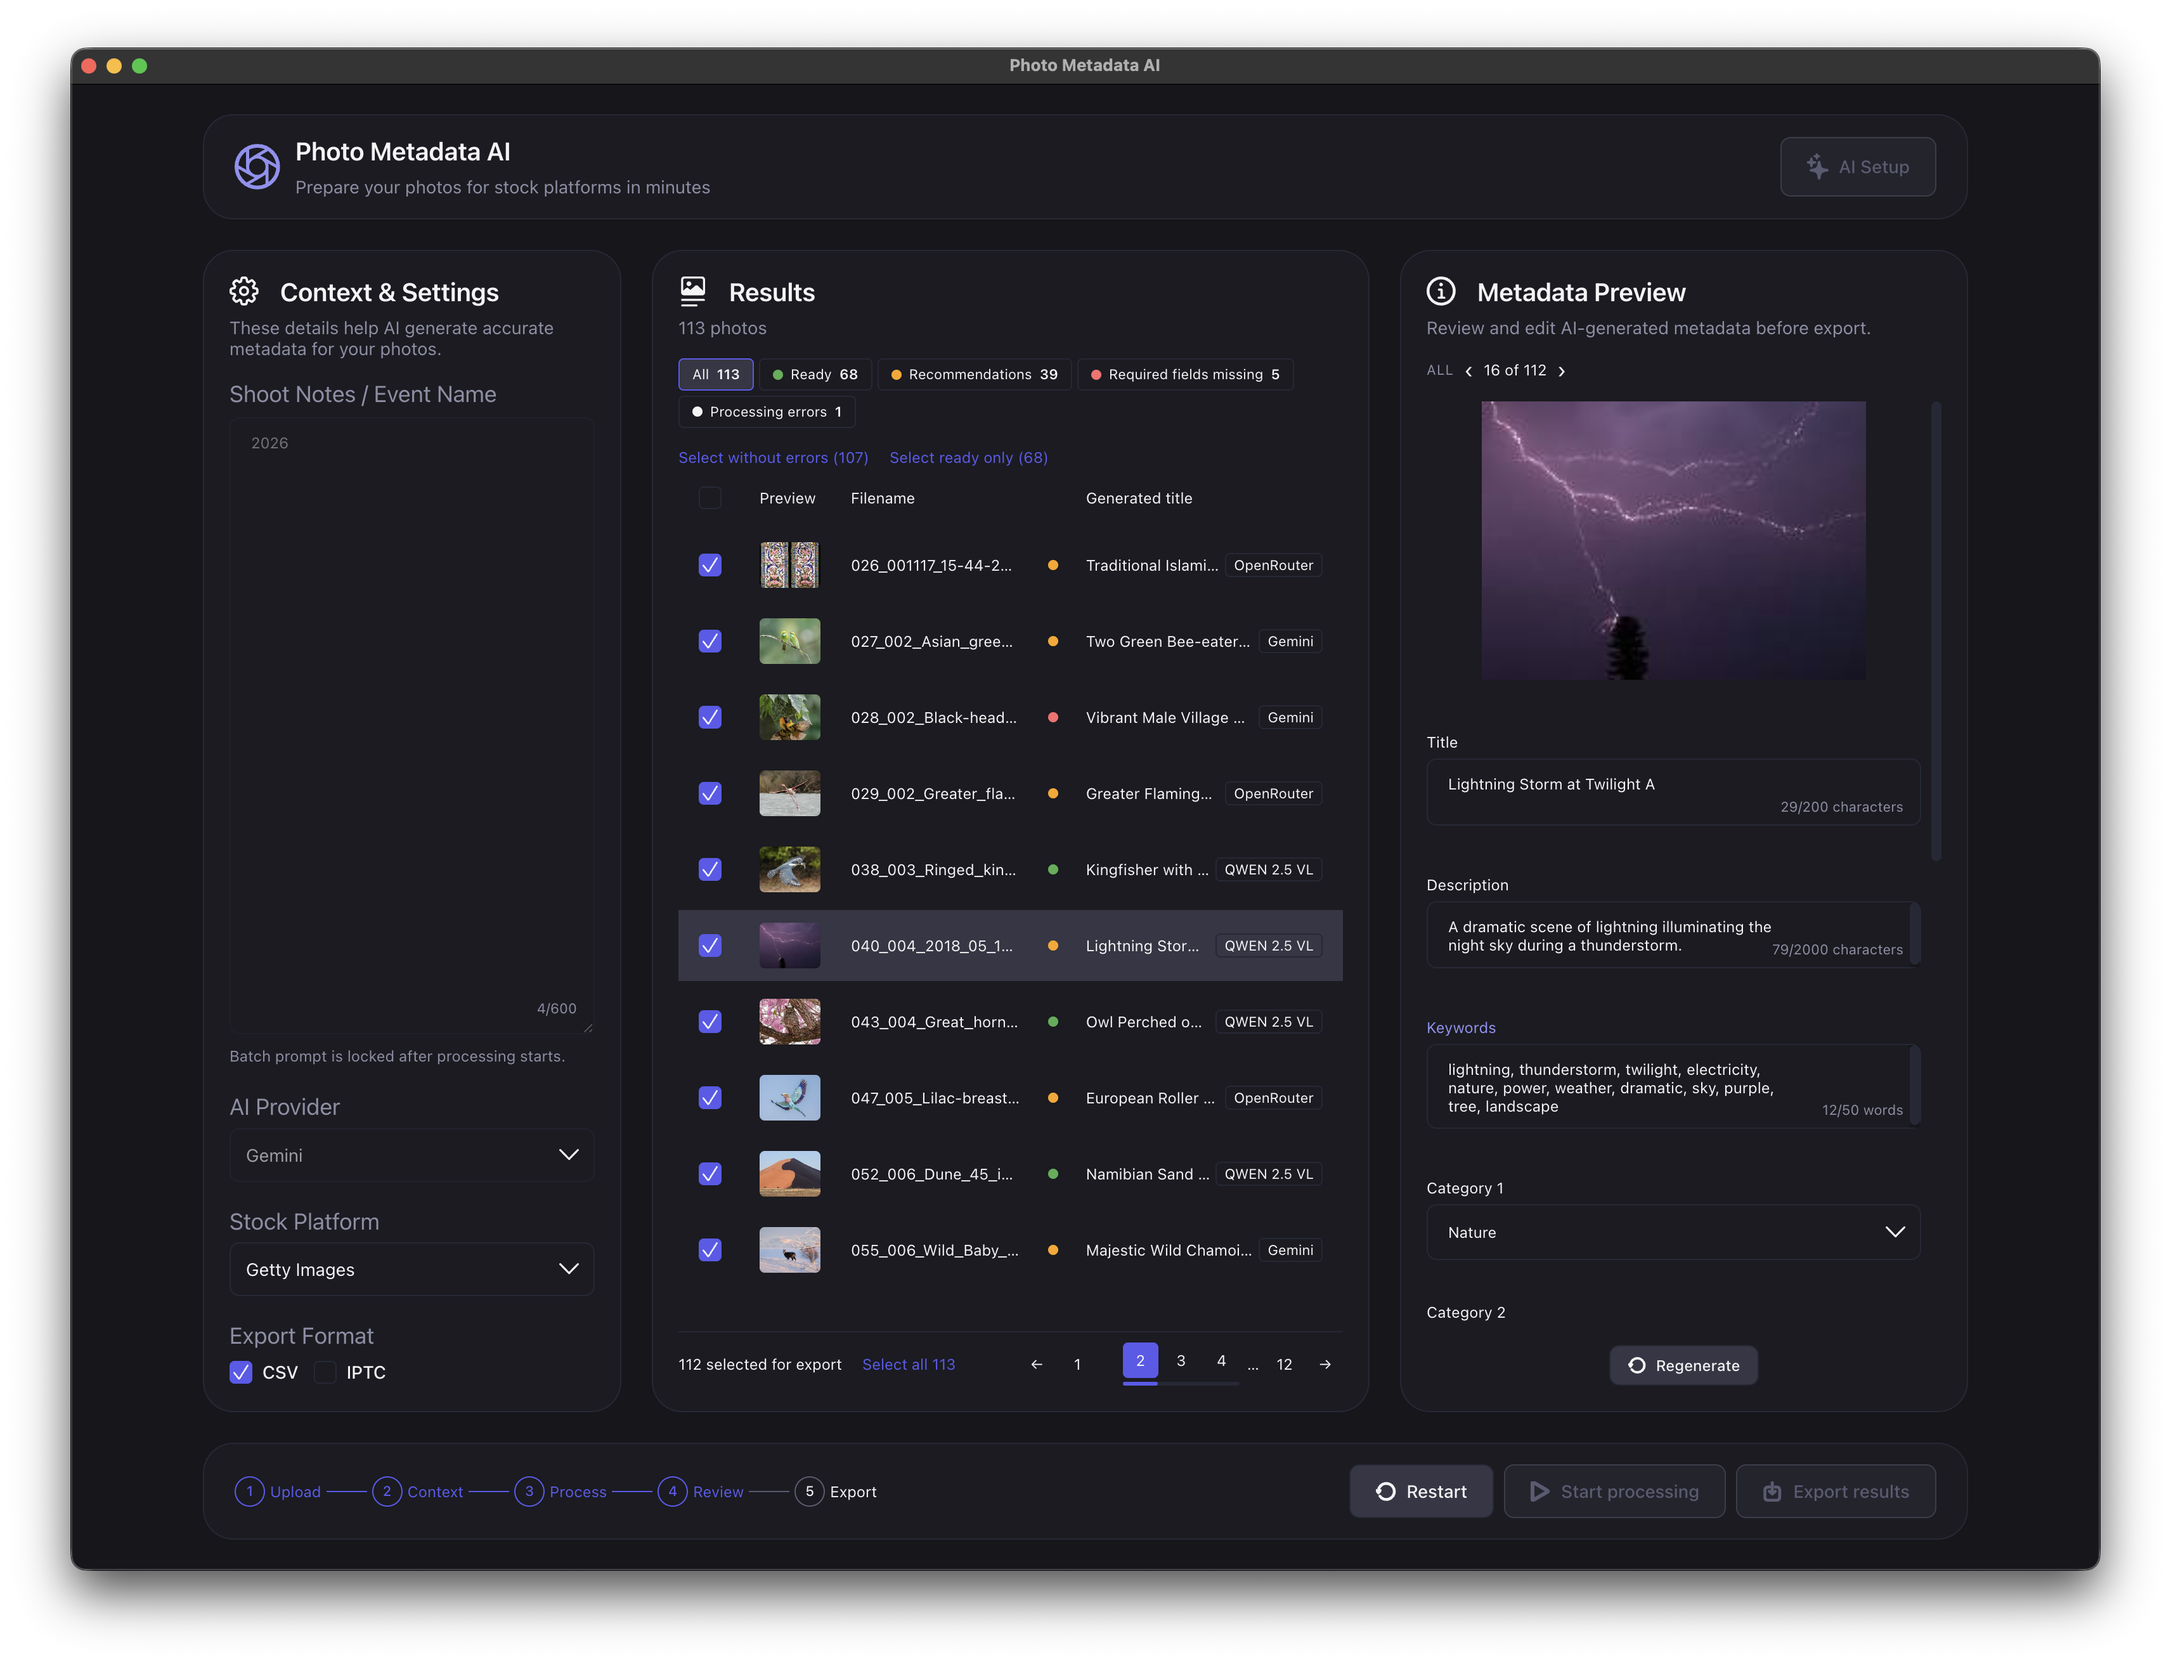
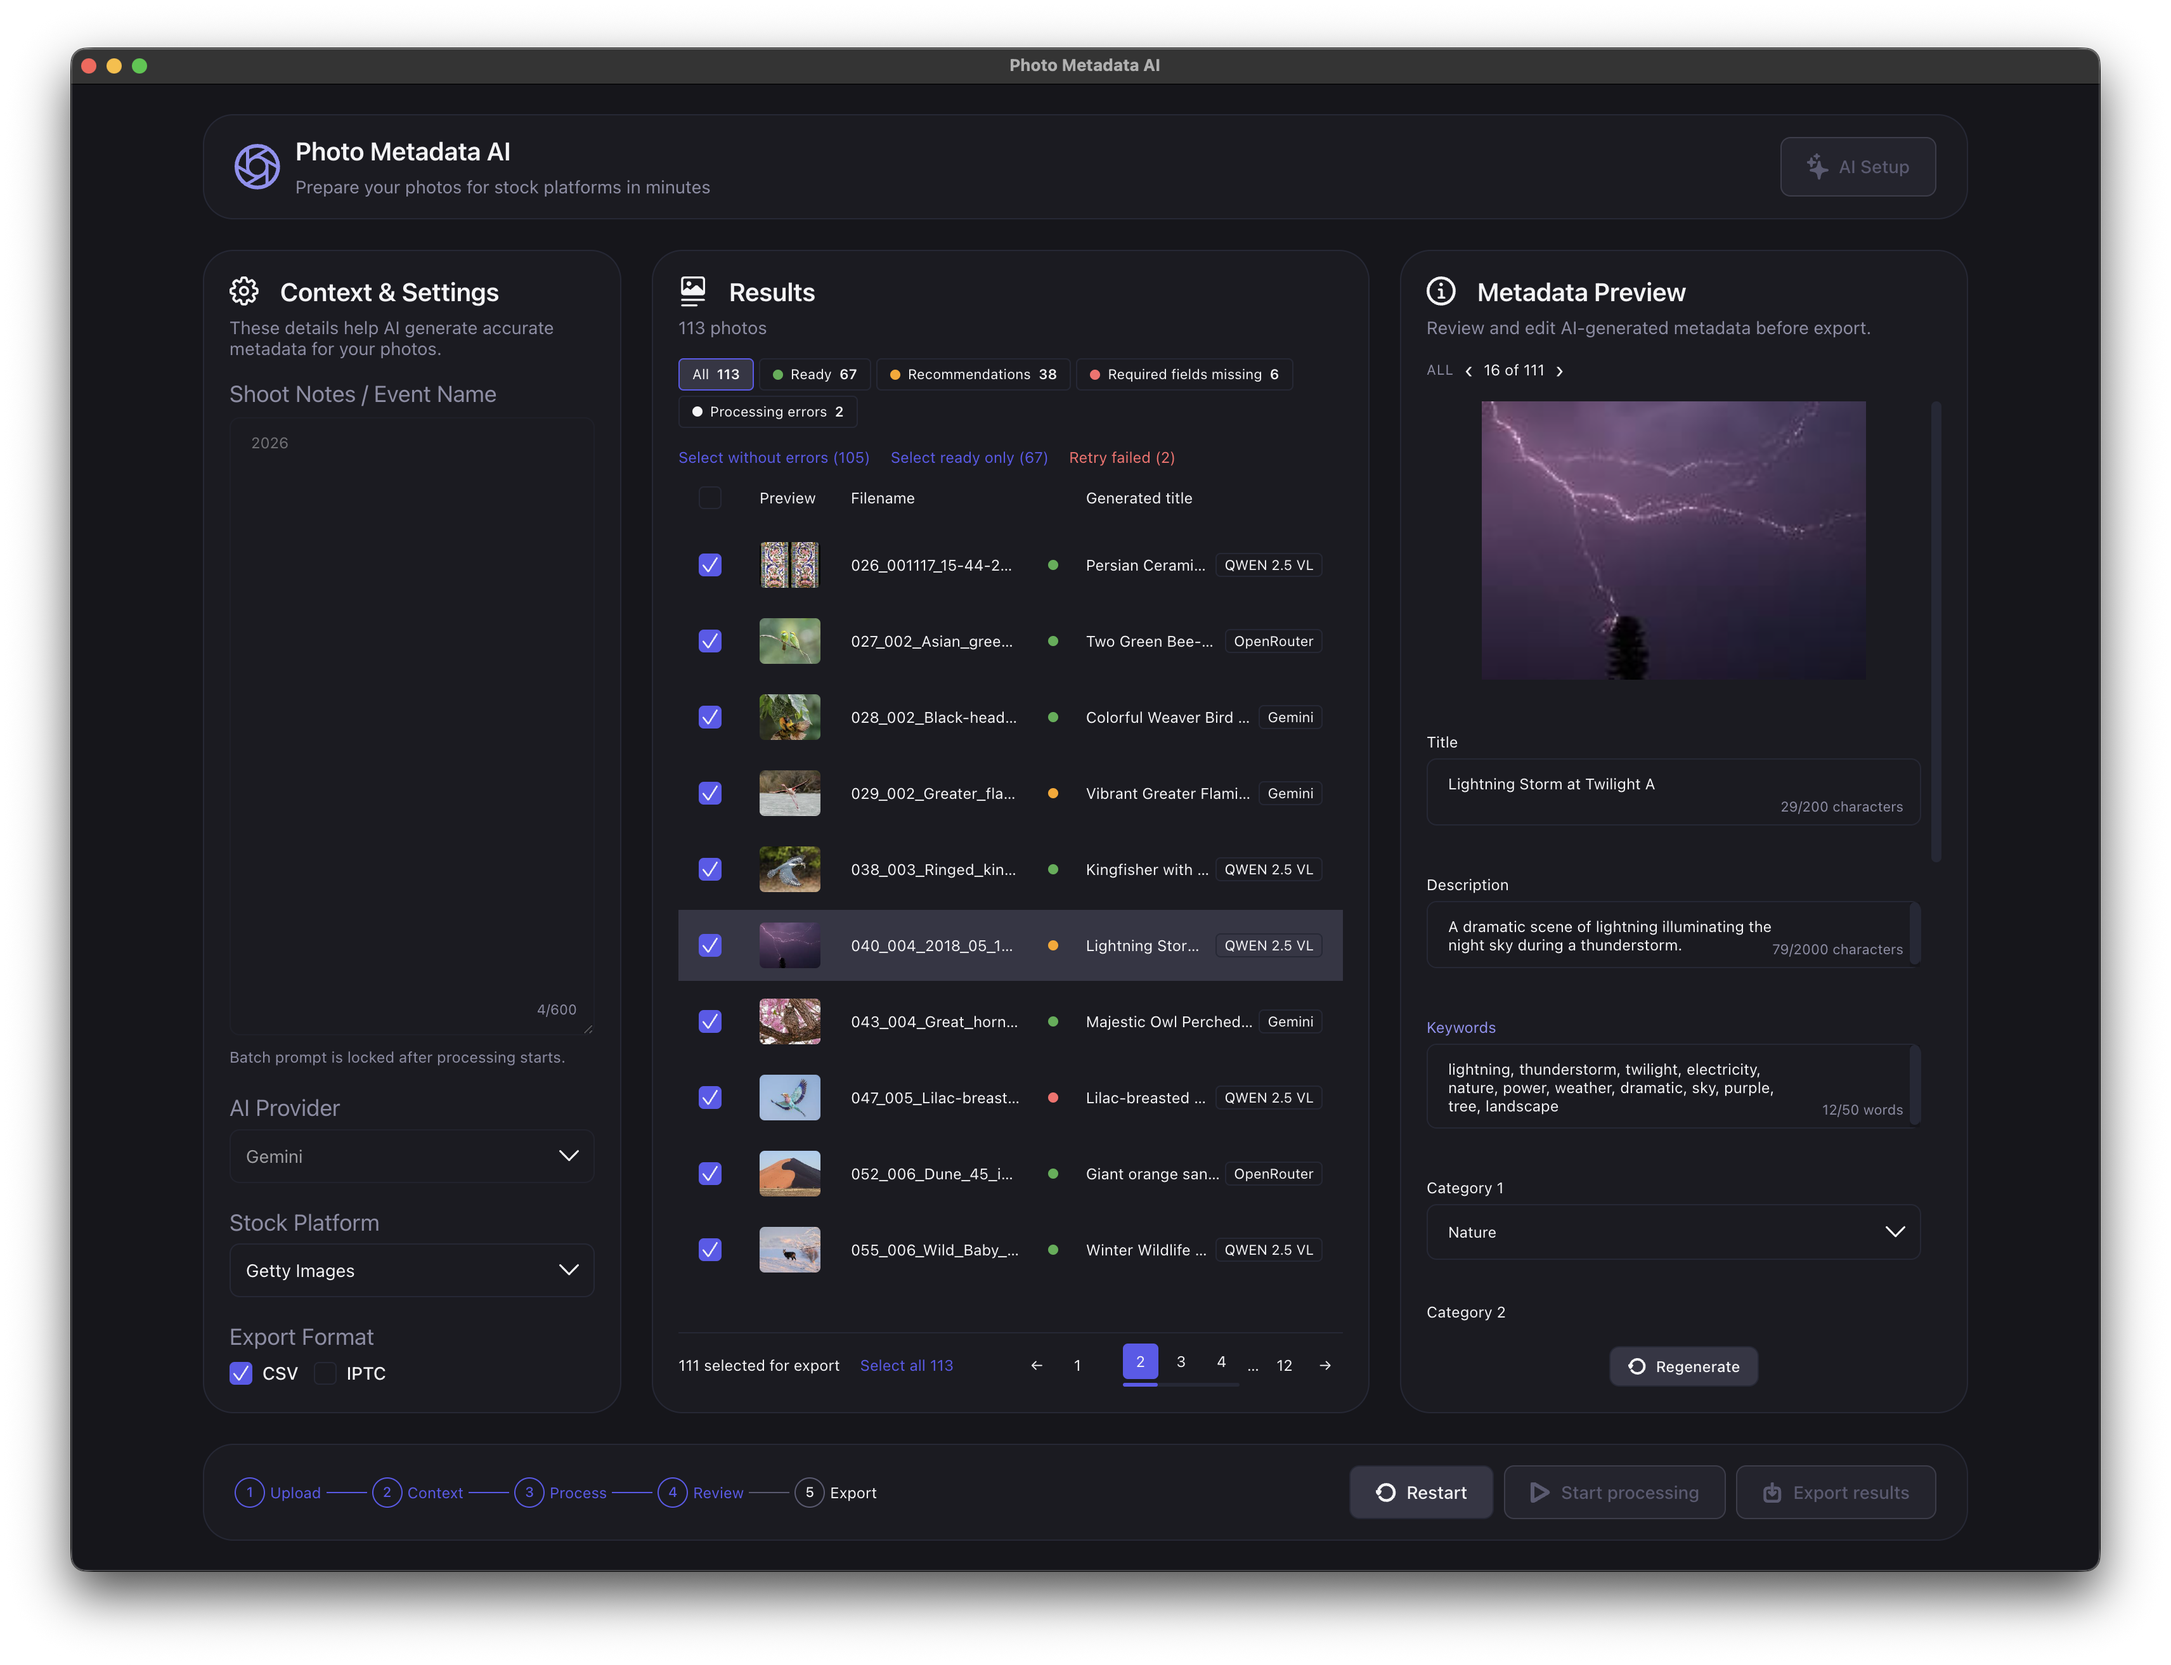
docs: refresh screenshots and add retry failed

diff --git a/docs/screenshots/README.md b/docs/screenshots/README.md
@@ -1,20 +1,21 @@
 # Скриншоты приложения
 
-Снято 30–31 июля 2026 года на macOS, сборка Photo Metadata AI 1.0.1-universal.
+Снято 30 июля — 3 августа 2026 года на macOS, сборка Photo Metadata AI 1.0.1-universal.
 
 | Файл | Что изображено |
 | --- | --- |
 | [01_dmg_installer.png](01_dmg_installer.png) | Смонтированный DMG: перетаскивание «Photo Metadata AI.app» в папку Applications. |
-| [02_onboarding_ai_setup.png](02_onboarding_ai_setup.png) | Онбординг «Checking your AI setup»: найден локальный QWEN 2.5 VL и ключ Gemini, поле для ключа OpenRouter. |
-| [03_ai_setup_invalid_key.png](03_ai_setup_invalid_key.png) | Окно «AI Setup»: QWEN 2.5 VL отключён, ввод ключа OpenRouter с ошибкой «invalid key». |
+| [02_onboarding.png](02_onboarding.png) | Онбординг «Checking your AI setup»: найден локальный QWEN 2.5 VL и ключ Gemini, поле для ключа OpenRouter. |
+| [03_ai_setup.png](03_ai_setup.png) | Окно «AI Setup»: QWEN 2.5 VL отключён, ввод ключа OpenRouter с ошибкой «invalid key». |
 | [04_start_screen.png](04_start_screen.png) | Шаг 1 «Upload»: пустая зона drag & drop, панель «Context & Settings», карточки возможностей. |
 | [05_upload_and_context.png](05_upload_and_context.png) | Шаг 2 «Context»: загружено 113 фотографий, заполнены заметки съёмки, активна кнопка «Start processing». |
 | [06_processing.png](06_processing.png) | Шаг 3 «Process»: модальное окно прогресса «Processing: 73/113», обработка через QWEN 2.5 VL. |
-| [07_review_metadata_preview.png](07_review_metadata_preview.png) | Шаг 4 «Review»: таблица результатов и панель «Metadata Preview» с заголовком, описанием, ключевыми словами и категорией. |
-| [08_review_recommendations_filter.png](08_review_recommendations_filter.png) | Быстрый фильтр «Recommendations»: 17 из 113 фотографий, навигация по группе и подсказка о релизах для съёмок с людьми. |
-| [09_review_regenerating.png](09_review_regenerating.png) | Перегенерация метаданных для выбранного файла: поля в состоянии «Regenerating…». |
-| [10_select_ready_only.png](10_select_ready_only.png) | Редакционные поля: Editorial = Yes, отредактированная подпись, локация; экспорт в Adobe Stock с CSV и IPTC, выбраны для экспорта только Ready. |
-| [11_export_in_progress.png](11_export_in_progress.png) | Шаг 5 «Export»: модальное окно прогресса «Exporting: 48/70» с возможностью отмены. |
-| [12_export_completed.png](12_export_completed.png) | Экспорт завершён: 70 фотографий готовы к загрузке на сток, кнопки «Open CSV file» и «Open folder». |
-| [13_exported_csv_adobe_stock.png](13_exported_csv_adobe_stock.png) | Выгруженный CSV для Adobe Stock, открытый в Numbers: колонки Filename, Title, Description, Keywords, Category и флаги. |
-| [14_exported_file_iptc_metadata.png](14_exported_file_iptc_metadata.png) | Экспортированный JPEG в «Просмотре» macOS: вшитые IPTC-поля — описание, город, страна, ключевые слова, название, категория. |
+| [07_review_metadata_preview.png](07_review_metadata_preview.png) | Шаг 4 «Review»: таблица результатов и панель «Metadata Preview» с заголовком, описанием, ключевыми словами и категорией; 2 файла с ошибками обработки и ссылка «Retry failed (2)». |
+| [08_retry_failed.png](08_retry_failed.png) | Повтор упавших файлов: прогресс «Processing: 1/2» через Gemini с отдельной кнопкой «Cancel retry» — отменяется только повтор, а не весь пакет. |
+| [09_review_recommendations_filter.png](09_review_recommendations_filter.png) | Быстрый фильтр «Recommendations»: 16 из 113 фотографий, навигация по группе (7 of 16) и подсказка о релизах для съёмок с людьми. |
+| [10_review_regenerating.png](10_review_regenerating.png) | Перегенерация метаданных для выбранного файла: поля в состоянии «Regenerating…». |
+| [11_select_ready_only.png](11_select_ready_only.png) | Редакционные поля: License Type = Editorial, подпись, локация и ошибка об обязательной editorial-дате; экспорт в CSV и IPTC, выбраны только Ready (66 из 113). |
+| [12_export_in_progress.png](12_export_in_progress.png) | Шаг 5 «Export»: модальное окно прогресса «Exporting: 48/70» с возможностью отмены. |
+| [13_export_completed.png](13_export_completed.png) | Экспорт завершён: 70 фотографий готовы к загрузке на сток, кнопки «Open CSV file» и «Open folder». |
+| [14_exported_csv_adobe_stock.png](14_exported_csv_adobe_stock.png) | Выгруженный CSV для Adobe Stock, открытый в Numbers: колонки Filename, Title, Description, Keywords, Category и флаги. |
+| [15_exported_file_iptc_metadata.png](15_exported_file_iptc_metadata.png) | Экспортированный JPEG в «Просмотре» macOS: вшитые IPTC-поля — описание, город, страна, ключевые слова, название, категория. |

diff --git a/README.md b/README.md
@@ -36,7 +36,7 @@
 
 Завершённый экспорт — шаг 5, готовые к загрузке на сток фотографии и CSV:
 
-![Экспорт завершён](docs/screenshots/12_export_completed.png)
+![Экспорт завершён](docs/screenshots/13_export_completed.png)
 
 Все экраны с описаниями — в [docs/screenshots/](docs/screenshots/README.md).
 
